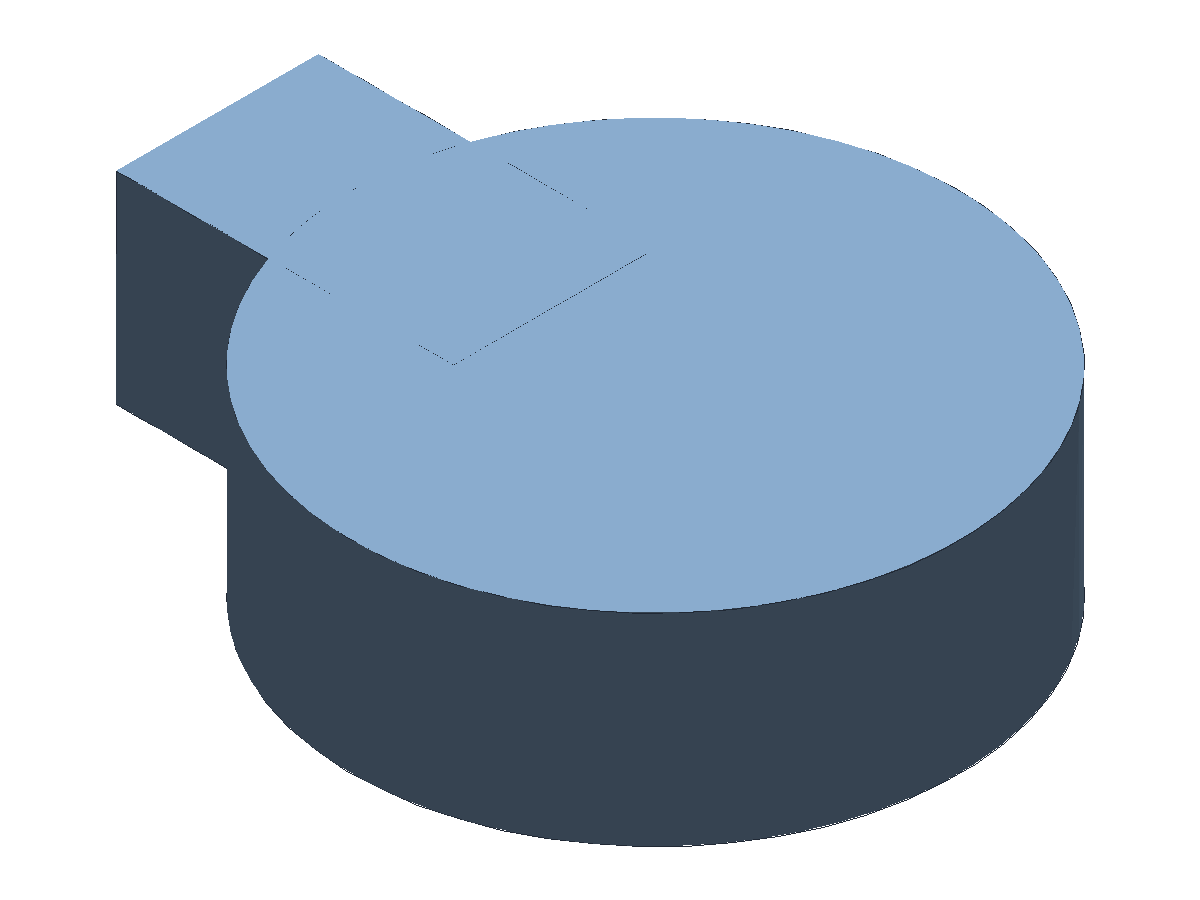
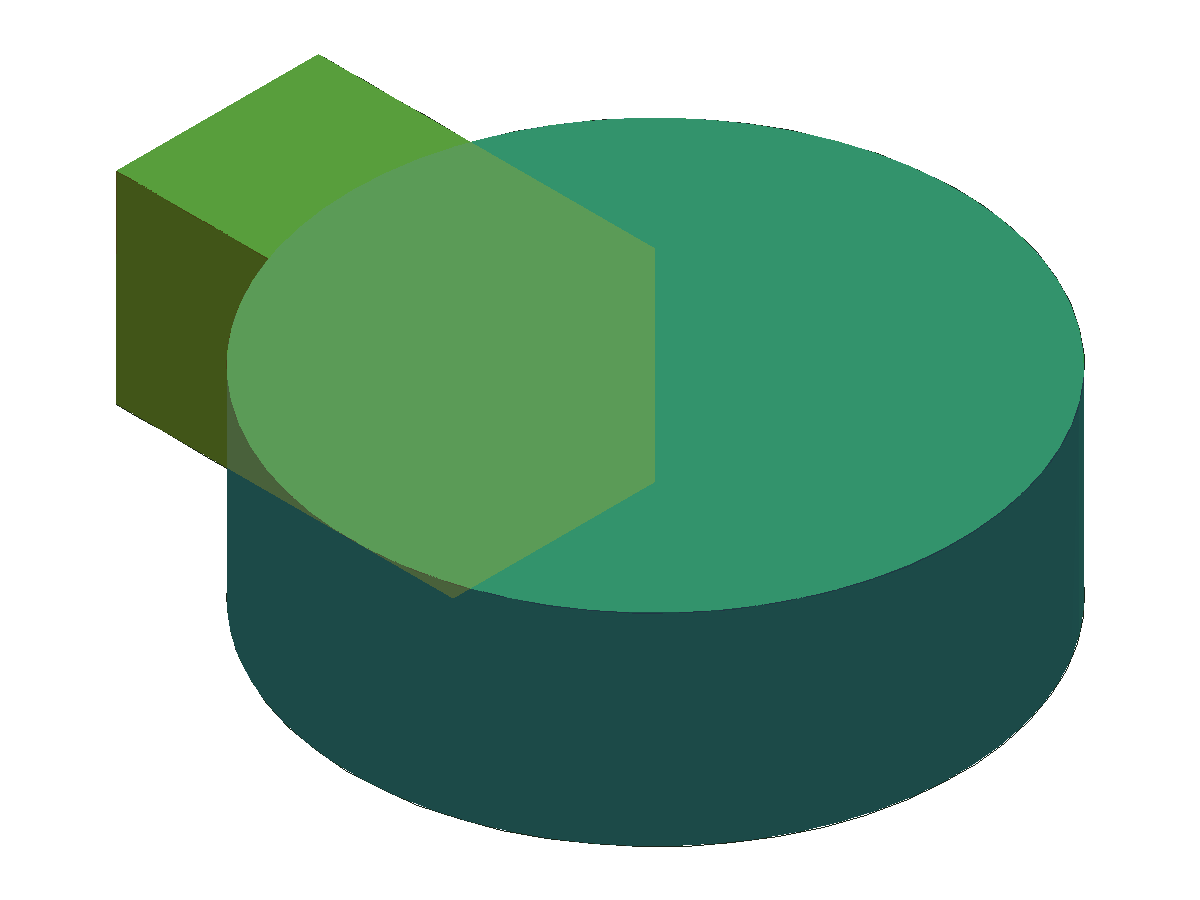
Align boolean example previews

diff --git a/src/tests/dsl_feature_examples.e2e.test.ts b/src/tests/dsl_feature_examples.e2e.test.ts
@@ -4,6 +4,43 @@ import { runTests } from "./occt_test_utils.js";
 
 const tests = [
   {
+    name: "dsl feature examples: boolean previews use consistent ghost tint layering",
+    fn: async () => {
+      const ids = ["boolean", "boolean-cut", "boolean-intersect"];
+      for (const id of ids) {
+        const example = dslFeatureExamples.find((entry) => entry.id === id);
+        assert.ok(example, `missing ${id} example`);
+        assert.ok(example.render?.layers, `${id} example should define render layers`);
+        assert.equal(example.render.layers.length, 3, `${id} should keep three render layers`);
+        assert.equal(
+          example.render.layers[0]?.screenSpaceTint,
+          true,
+          `${id} base/source layer should use screen-space tint`
+        );
+        assert.equal(
+          example.render.layers[1]?.screenSpaceTint,
+          true,
+          `${id} tool/source layer should use screen-space tint`
+        );
+        assert.equal(
+          example.render.layers[0]?.color?.join(","),
+          "66,133,244",
+          `${id} should keep the blue base/source tint`
+        );
+        assert.equal(
+          example.render.layers[1]?.color?.join(","),
+          "251,188,5",
+          `${id} should keep the amber tool/source tint`
+        );
+        assert.equal(
+          example.render.layers[2]?.color?.join(","),
+          "52,168,83",
+          `${id} should keep the green result body`
+        );
+      }
+    },
+  },
+  {
     name: "dsl feature examples: boolean intersect keeps translucent operand overlays depth-tested",
     fn: async () => {
       const example = dslFeatureExamples.find((entry) => entry.id === "boolean-intersect");

diff --git a/src/examples/dsl_feature_examples.ts b/src/examples/dsl_feature_examples.ts
@@ -1073,6 +1073,35 @@ export const dslFeatureExamples: DslFeatureExample[] = [
         ["base", "tool"]
       ),
     ]),
+    render: {
+      layers: [
+        {
+          output: "body:base",
+          color: [66, 133, 244],
+          alpha: 0.2,
+          screenSpaceTint: true,
+          wireframe: false,
+          depthTest: true,
+        },
+        {
+          output: "body:tool",
+          color: [251, 188, 5],
+          alpha: 0.2,
+          screenSpaceTint: true,
+          wireframe: false,
+          depthTest: true,
+        },
+        {
+          output: "body:main",
+          color: [52, 168, 83],
+          alpha: 1,
+          wireframe: true,
+          wireColor: [24, 35, 24],
+          wireDepthTest: true,
+          depthTest: true,
+        },
+      ],
+    },
   },
   {
     id: "boolean-cut",
@@ -1093,6 +1122,35 @@ export const dslFeatureExamples: DslFeatureExample[] = [
         ["base", "tool"]
       ),
     ]),
+    render: {
+      layers: [
+        {
+          output: "body:base",
+          color: [66, 133, 244],
+          alpha: 0.2,
+          screenSpaceTint: true,
+          wireframe: false,
+          depthTest: true,
+        },
+        {
+          output: "body:tool",
+          color: [251, 188, 5],
+          alpha: 0.2,
+          screenSpaceTint: true,
+          wireframe: false,
+          depthTest: true,
+        },
+        {
+          output: "body:main",
+          color: [52, 168, 83],
+          alpha: 1,
+          wireframe: true,
+          wireColor: [24, 35, 24],
+          wireDepthTest: true,
+          depthTest: true,
+        },
+      ],
+    },
   },
   {
     id: "boolean-intersect",

diff --git a/docs/reference/dsl/examples/features.md b/docs/reference/dsl/examples/features.md
@@ -691,6 +691,9 @@ const examplePart = part("example-boolean", [
 ]);
 ```
 
+Notes:
+- The docs renderer overlays the original inputs in translucent blue and amber so the green union result reads as the combined output volume.
+
 ## Boolean Subtract
 
 ![Boolean subtract example](/examples/dsl/boolean-cut.iso.png)
@@ -702,6 +705,9 @@ const examplePart = part("example-boolean-cut", [
   cut("subtract-1", selectorNamed("body:base"), selectorNamed("body:tool"), "body:main"),
 ]);
 ```
+
+Notes:
+- The docs renderer keeps the source plate and subtracting tool as translucent overlays so the green subtract result and removed volume stay legible at a glance.
 
 ## Boolean Intersect
 
@@ -716,7 +722,7 @@ const examplePart = part("example-boolean-intersect", [
 ```
 
 Notes:
-- The docs renderer overlays `body:a` and `body:b` in translucent colors so the intersection volume is easier to read.
+- The docs renderer overlays the original inputs in translucent blue and amber so the green intersection result stays readable without mesh-striping artifacts.
 
 ## Pattern (Feature/Body)
 
